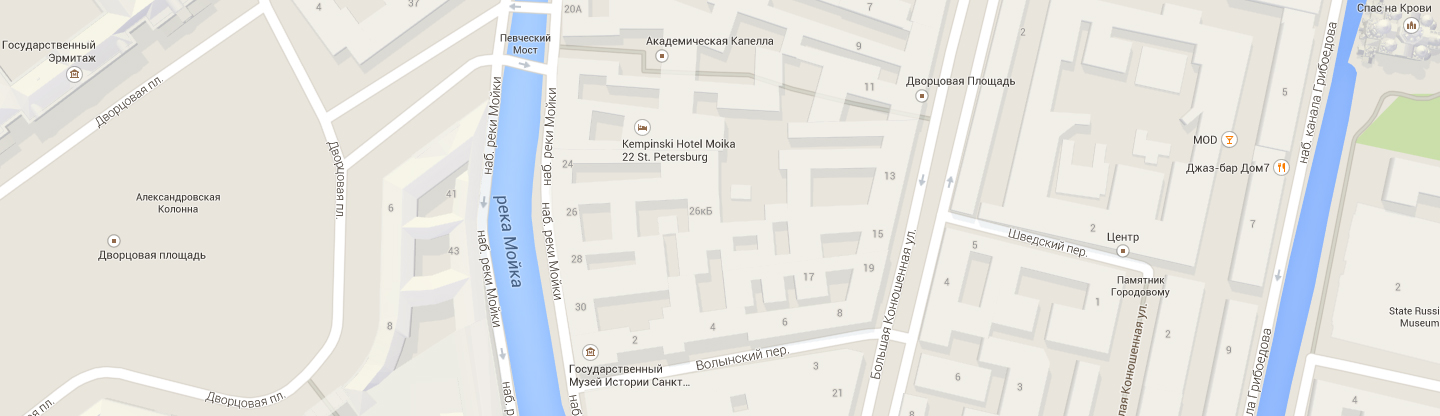
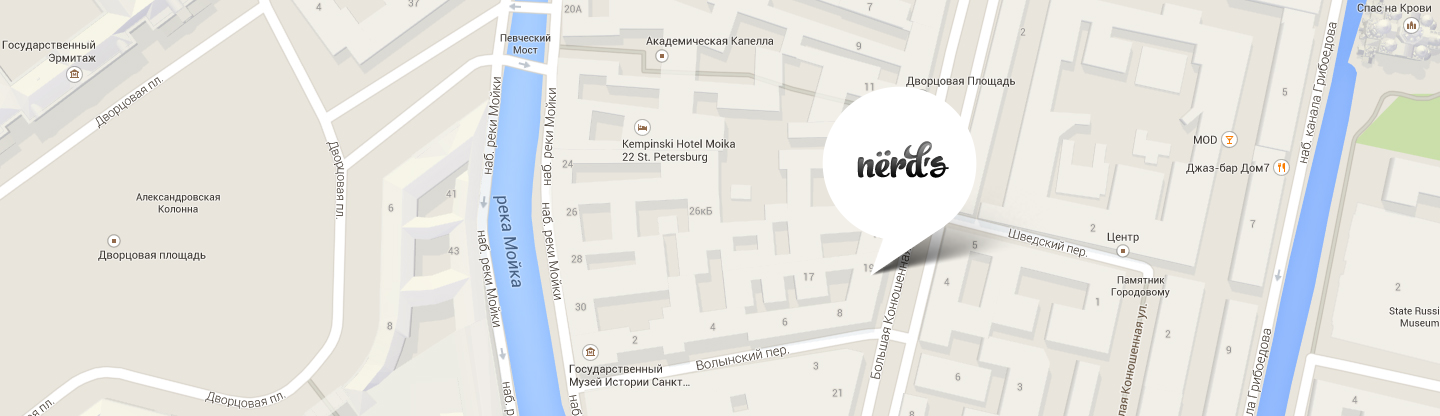
Правки

Changed region(s): [[0.5625, 0.2188, 0.6875, 0.6562]]

diff --git a/index.html b/index.html
@@ -144,19 +144,19 @@
       </div>
 
       <ul class="partners">
-        <li class="partner">
-          <a href="https://htmlacademy.ru/intensive/htmlcss">
+        <li>
+          <a class="partner" href="https://htmlacademy.ru/intensive/htmlcss">
             <img src="img/html-academy-logo.svg" width="199" alt="Логотип html-academy">
           </a>
         </li>
-        <li class="partner">
-          <a href="blank.html"><img src="img/barbershop-logo.svg" width="199" alt="Логотип барбершопа"></a>
+        <li>
+          <a class="partner" href="blank.html"><img src="img/barbershop-logo.svg" width="199" alt="Логотип барбершопа"></a>
         </li>
-        <li class="partner">
-          <a href="blank.html"><img src="img/pink-logo.svg" width="199" alt="Логотип сайта pink"></a>
+        <li>
+          <a class="partner" href="blank.html"><img src="img/pink-logo.svg" width="199" alt="Логотип сайта pink"></a>
         </li>
-        <li class="partner">
-          <a href="blank.html"><img src="img/mishka-logo.svg" width="199" alt="Логотип магазина mishka"></a>
+        <li>
+          <a class="partner" href="blank.html"><img src="img/mishka-logo.svg" width="199" alt="Логотип магазина mishka"></a>
         </li>
       </ul>
 
@@ -180,9 +180,9 @@
       </div>
 
       <ul class="social-list">
-        <li class="social-btn"><a class="btn-vk" href="https://www.vk.com/"><span class="visually-hidden">Вконтакте</span></a></div></li>
-        <li class="social-btn"><a class="btn-facebook" href="https://www.facebook.com/"><span class="visually-hidden">Фейсбук</span></a></li>
-        <li class="social-btn"><a class="btn-instagram" href="https://www.instagram.com/"><span class="visually-hidden">Инстаграм</span></a></li>
+        <li><a class="social-btn btn-vk" href="https://www.vk.com/"><span class="visually-hidden">Вконтакте</span></a></li>
+        <li><a class="social-btn btn-facebook" href="https://www.facebook.com/"><span class="visually-hidden">Фейсбук</span></a></li>
+        <li><a class="social-btn btn-instagram" href="https://www.instagram.com/"><span class="visually-hidden">Инстаграм</span></a></li>
       </ul>
 
       <div class="suggest">

diff --git a/catalog.html b/catalog.html
@@ -34,10 +34,10 @@
         </ul>
         <ul class="list-sort-direction">
           <li>
-            <a class="sort-active sort-btn" href="">По убыванию</a>
+            <a class="sort-active sort-btn btn-down" href=""><span class="visually-hidden">По убыванию</span></a>
           </li>
           <li>
-            <a class="sort-btn" href="">По возрастанию</a>
+            <a class="sort-btn btn-up" href=""><span class="visually-hidden">По возрастанию</span></a>
           </li>
         </ul>
       </div>
@@ -244,9 +244,9 @@
       </div>
 
       <ul class="social-list">
-        <li class="social-btn"><a class="btn-vk" href="https://www.vk.com/"><span class="visually-hidden">Вконтакте</span></a></li>
-        <li class="social-btn"><a class="btn-facebook" href="https://www.facebook.com/"><span class="visually-hidden">Фейсбук</span></a></li>
-        <li class="social-btn"><a class="btn-instagram" href="https://www.instagram.com/"><span class="visually-hidden">Инстаграм</span></a></li>
+        <li><a class="social-btn btn-vk" href="https://www.vk.com/"><span class="visually-hidden">Вконтакте</span></a></li>
+        <li><a class="social-btn btn-facebook" href="https://www.facebook.com/"><span class="visually-hidden">Фейсбук</span></a></li>
+        <li><a class="social-btn btn-instagram" href="https://www.instagram.com/"><span class="visually-hidden">Инстаграм</span></a></li>
       </ul>
 
       <div class="suggest">

diff --git a/blank.html b/blank.html
@@ -46,9 +46,9 @@
       </div>
 
       <ul class="social-list">
-        <li class="social-btn"><a class="btn-vk" href="https://www.vk.com/"><span class="visually-hidden">Вконтакте</span></a></li>
-        <li class="social-btn"><a class="btn-facebook" href="https://www.facebook.com/"><span class="visually-hidden">Фейсбук</span></a></li>
-        <li class="social-btn"><a class="btn-instagram" href="https://www.instagram.com/"><span class="visually-hidden">Инстаграм</span></a></li>
+        <li><a class="social-btn btn-vk" href="https://www.vk.com/"><span class="visually-hidden">Вконтакте</span></a></li>
+        <li><a class="social-btn btn-facebook" href="https://www.facebook.com/"><span class="visually-hidden">Фейсбук</span></a></li>
+        <li><a class="social-btn btn-instagram" href="https://www.instagram.com/"><span class="visually-hidden">Инстаграм</span></a></li>
       </ul>
 
       <div class="suggest">

diff --git a/css/style.css b/css/style.css
@@ -283,8 +283,7 @@ th sup {
   display: flex;
   background-image: url("../img/map1.png");
   width: 1440px;
-  height: 416px;
-  position: relative;
+  min-height: 416px;
 }
 
 .contacts h3{
@@ -316,13 +315,6 @@ th sup {
 .btn-write:active{
   background-color: var(--red-extra-dark);
   color: var(--basic-white-opacity);
-}
-
-.contacts::after{
-  content: url("../img/map-marker1.png");
-  position: absolute;
-  right: 387px;
-  top: 85px;
 }
 
 .social-list {
@@ -399,6 +391,13 @@ th sup {
   color: var(--basic-black);
 }
 
+.btn-down::before{
+  content: url("../img/icon-down-dir.svg");
+}
+
+.btn-up{
+  content: url("../img/icon-up-dir.svg");
+}
 
 .sort-btn:hover {
   opacity: 0.6;
